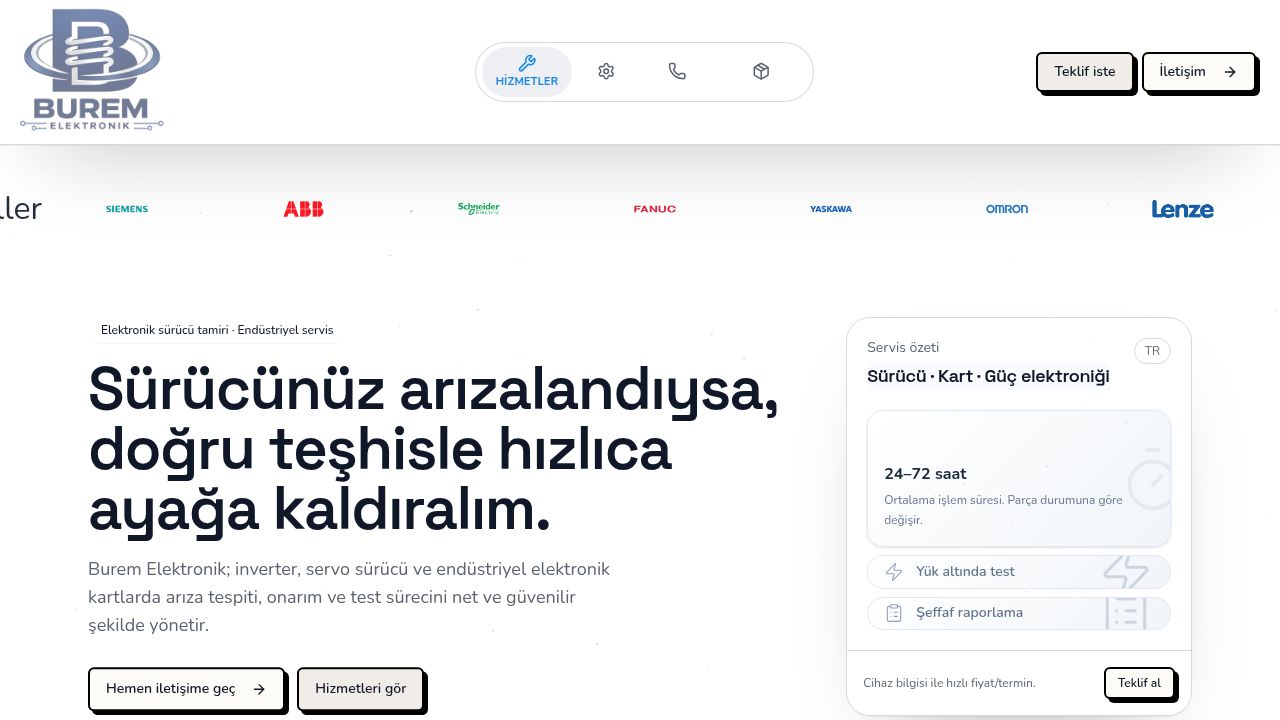
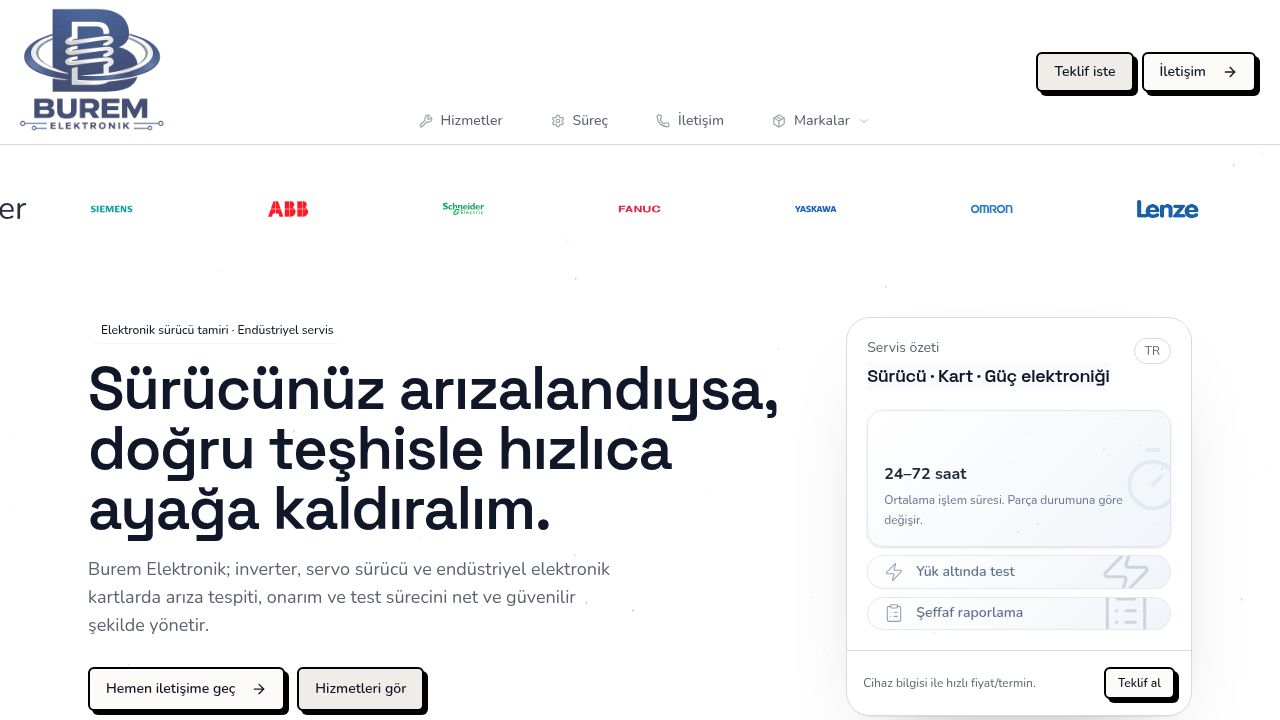
Enhance the brands dropdown with a larger size and impressive animations
Implements a new brands dropdown component using `useState` for hover state and `AnimatePresence` from framer-motion for enter/exit animations. The dropdown is expanded to 700px width with larger logo cards, staggered animations, and hover effects.

Replit-Commit-Author: Agent
Replit-Commit-Session-Id: 371f6235-2fde-4516-bc43-82dd514ff68f
Replit-Commit-Checkpoint-Type: full_checkpoint
Replit-Commit-Event-Id: 59c70dd5-7a42-4b04-beb7-c03ff19919ed
Replit-Commit-Screenshot-Url: https://storage.googleapis.com/screenshot-production-us-central1/220fef12-6025-4ca4-92d5-d8870d5c7179/371f6235-2fde-4516-bc43-82dd514ff68f/jYuCQqA
Replit-Helium-Checkpoint-Created: true

diff --git a/client/src/pages/home.tsx b/client/src/pages/home.tsx
@@ -756,60 +756,123 @@ function ProductsShowcase() {
 
 function BrandsDropdown() {
   const [, setLocation] = useLocation();
+  const [open, setOpen] = useState(false);
+  const closeTimer = useRef<ReturnType<typeof setTimeout> | null>(null);
+
+  const handleEnter = () => {
+    if (closeTimer.current) clearTimeout(closeTimer.current);
+    setOpen(true);
+  };
+  const handleLeave = () => {
+    closeTimer.current = setTimeout(() => setOpen(false), 120);
+  };
 
   return (
-    <div className="group/brands relative self-end -mb-px" data-testid="nav-item-brands">
+    <div
+      className="relative self-end -mb-px"
+      onMouseEnter={handleEnter}
+      onMouseLeave={handleLeave}
+      data-testid="nav-item-brands"
+    >
       {/* Tetikleyici buton */}
-      <button className="flex items-center gap-2 px-6 pb-3 pt-2 text-sm font-medium text-muted-foreground border-b-2 border-transparent group-hover/brands:border-primary group-hover/brands:text-foreground transition-colors">
-        <Package className="h-3.5 w-3.5 shrink-0 opacity-60 group-hover/brands:opacity-100 transition-opacity" />
+      <button
+        className={`flex items-center gap-2 px-6 pb-3 pt-2 text-sm font-medium border-b-2 transition-colors ${
+          open
+            ? "border-primary text-foreground"
+            : "border-transparent text-muted-foreground hover:border-primary hover:text-foreground"
+        }`}
+      >
+        <Package className="h-3.5 w-3.5 shrink-0" />
         Markalar
-        <ChevronDown className="h-3 w-3 opacity-50 transition-transform duration-200 group-hover/brands:rotate-180 group-hover/brands:opacity-100" />
+        <motion.span animate={{ rotate: open ? 180 : 0 }} transition={{ duration: 0.25 }}>
+          <ChevronDown className="h-3 w-3" />
+        </motion.span>
       </button>
 
       {/* Dropdown paneli */}
-      <div className="invisible group-hover/brands:visible opacity-0 group-hover/brands:opacity-100 transition-all duration-200 absolute top-full left-1/2 -translate-x-1/2 pt-1 z-50">
-        <motion.div
-          initial={false}
-          className="w-[520px] rounded-xl border bg-card/95 backdrop-blur-xl shadow-2xl p-4"
-        >
-          {/* Başlık */}
-          <p className="text-[10px] font-semibold uppercase tracking-widest text-muted-foreground mb-3 px-1">
-            Tamir ettiğimiz markalar
-          </p>
+      <AnimatePresence>
+        {open && (
+          <motion.div
+            key="brands-dropdown"
+            initial={{ opacity: 0, y: -10, scale: 0.97, filter: "blur(4px)" }}
+            animate={{ opacity: 1, y: 0, scale: 1, filter: "blur(0px)" }}
+            exit={{ opacity: 0, y: -8, scale: 0.97, filter: "blur(4px)" }}
+            transition={{ type: "spring", stiffness: 320, damping: 28, mass: 0.8 }}
+            className="absolute top-[calc(100%+4px)] left-1/2 -translate-x-1/2 z-50"
+            style={{ transformOrigin: "top center" }}
+          >
+            {/* Ok işareti */}
+            <div className="flex justify-center mb-[-1px]">
+              <div className="w-3 h-3 rotate-45 border-l border-t border-border bg-card" />
+            </div>
 
-          {/* Logo grid */}
-          <div className="grid grid-cols-5 gap-2">
-            {BRANDS.map((brand) => (
-              <button
-                key={brand.name}
-                onClick={() => setLocation(`/brand/${encodeURIComponent(brand.name)}`)}
-                title={brand.name}
-                data-testid={`brand-dropdown-${brand.name}`}
-                className="group/logo flex items-center justify-center rounded-lg border border-transparent bg-muted/40 p-2 h-12 hover:border-primary/30 hover:bg-background hover:shadow-sm transition-all"
-              >
-                <img
-                  src={brand.logo}
-                  alt={brand.name}
-                  className="h-full w-full object-contain"
-                  style={brand.scale ? { transform: `scale(${brand.scale * 0.75})` } : undefined}
-                  onError={(e) => {
-                    const img = e.target as HTMLImageElement;
-                    img.style.display = "none";
-                    const fb = img.nextElementSibling as HTMLElement | null;
-                    if (fb) fb.style.display = "block";
-                  }}
-                />
-                <span className="hidden text-[9px] font-bold" style={{ color: brand.color }}>{brand.name}</span>
-              </button>
-            ))}
-          </div>
+            <div className="w-[700px] rounded-2xl border bg-card/95 backdrop-blur-2xl shadow-2xl overflow-hidden">
+              {/* Üst renkli şerit */}
+              <div className="h-1 w-full bg-gradient-to-r from-primary/60 via-primary to-primary/60" />
 
-          {/* Alt not */}
-          <p className="mt-3 text-center text-[10px] text-muted-foreground border-t pt-2">
-            Ve daha fazlası — listemizde olmayan markalar için bizi arayın.
-          </p>
-        </motion.div>
-      </div>
+              <div className="p-5">
+                {/* Başlık */}
+                <div className="flex items-center justify-between mb-4">
+                  <p className="text-[11px] font-bold uppercase tracking-widest text-muted-foreground">
+                    Tamir ettiğimiz markalar
+                  </p>
+                  <span className="text-[10px] text-muted-foreground/60">{BRANDS.length} marka</span>
+                </div>
+
+                {/* Logo grid — 5 kolon, büyük kartlar */}
+                <div className="grid grid-cols-5 gap-2.5">
+                  {BRANDS.map((brand, i) => (
+                    <motion.button
+                      key={brand.name}
+                      initial={{ opacity: 0, y: 8 }}
+                      animate={{ opacity: 1, y: 0 }}
+                      transition={{ delay: i * 0.022, type: "spring", stiffness: 400, damping: 28 }}
+                      onClick={() => { setLocation(`/brand/${encodeURIComponent(brand.name)}`); setOpen(false); }}
+                      title={brand.name}
+                      data-testid={`brand-dropdown-${brand.name}`}
+                      className="group/logo flex flex-col items-center justify-center gap-1.5 rounded-xl border border-transparent bg-muted/30 p-3 h-[70px] hover:border-primary/30 hover:bg-background hover:shadow-md transition-all duration-200"
+                      whileHover={{ scale: 1.06, y: -2 }}
+                      whileTap={{ scale: 0.97 }}
+                    >
+                      <img
+                        src={brand.logo}
+                        alt={brand.name}
+                        className="h-8 w-full object-contain"
+                        style={brand.scale ? { transform: `scale(${brand.scale * 0.7})` } : undefined}
+                        onError={(e) => {
+                          const img = e.target as HTMLImageElement;
+                          img.style.display = "none";
+                          const fb = img.nextElementSibling as HTMLElement | null;
+                          if (fb) fb.style.display = "flex";
+                        }}
+                      />
+                      <span className="hidden items-center justify-center text-[8px] font-bold" style={{ color: brand.color }}>
+                        {brand.name}
+                      </span>
+                      <span className="text-[8px] text-muted-foreground/0 group-hover/logo:text-muted-foreground transition-colors truncate w-full text-center leading-none">
+                        {brand.name}
+                      </span>
+                    </motion.button>
+                  ))}
+                </div>
+
+                {/* Alt not */}
+                <div className="mt-4 flex items-center justify-center gap-2 border-t pt-3">
+                  <span className="text-[10px] text-muted-foreground">
+                    Listemizde olmayan markalar için —
+                  </span>
+                  <button
+                    onClick={() => { document.getElementById("contact")?.scrollIntoView({ behavior: "smooth" }); setOpen(false); }}
+                    className="text-[10px] font-semibold text-primary hover:underline"
+                  >
+                    bize danışın →
+                  </button>
+                </div>
+              </div>
+            </div>
+          </motion.div>
+        )}
+      </AnimatePresence>
     </div>
   );
 }
